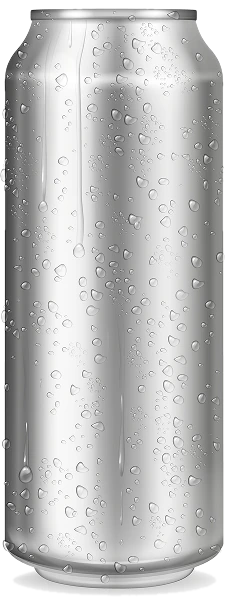
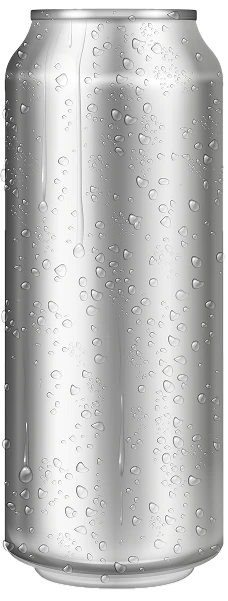
Remove can halo, declutter hero, testimonial arrows, mobile layout
- cut the photo's grey contact shadow so the shader no longer tints it into a halo
- drop the hero sub-text and the can's drop shadow
- 8 testimonials stepped with side arrows like the hero, no scrollbar
- mobile: no hero arrows, smaller can, centred contact block

Changed region(s): [[0.0921, 0.9285, 0.9211, 0.9884]]

diff --git a/index.html b/index.html
@@ -34,7 +34,6 @@
           <svg viewBox="0 0 24 24" aria-hidden="true"><path d="m9 5 7 7-7 7" /></svg>
         </button>
         <div class="flavour-tabs" id="dots" role="tablist" aria-label="Choose a flavour"></div>
-        <p class="hero-tag" id="hero-tag"></p>
       </section>
 
       <!-- ---------- Intro ---------- -->
@@ -83,27 +82,50 @@
       <!-- ---------- Testimonials ---------- -->
       <section class="testimonials reveal">
         <h2 class="section-title yellow">User testimonials</h2>
-        <div class="quotes-wrap">
-          <ul class="quotes" id="quotes">
-            <li>
-              <blockquote>I have been ordering Freshy for more than a year and I cannot stop, addicted! The freshness, the taste and the health factor, just ordered some more.</blockquote>
-              <span class="avatar" style="--c: #ff8989">IB</span><cite>Isabel Black</cite>
-            </li>
-            <li>
-              <blockquote>Unbelievably good: the taste hits all the right spots. Keep up the good work, guys!</blockquote>
-              <span class="avatar" style="--c: #c7db9c">MJ</span><cite>Michael Joseph</cite>
-            </li>
-            <li>
-              <blockquote>When my friend first offered me the orange, I was sceptical, as if there weren't a million similar drinks out there. Little did I know, I was wrong. Freshy is one in a million!</blockquote>
-              <span class="avatar" style="--c: #ffaa28">LB</span><cite>Lily Bloomdale</cite>
-            </li>
-            <li>
-              <blockquote>The lemon one replaced my afternoon coffee. Light, fizzy and not too sweet.</blockquote>
-              <span class="avatar" style="--c: #d3e671">JW</span><cite>Jonah Wrenfield</cite>
-            </li>
-          </ul>
+        <div class="quotes-row">
+          <button class="side-arrow" id="quotes-prev" type="button" aria-label="Previous testimonials">
+            <svg viewBox="0 0 24 24" aria-hidden="true"><path d="M15 5 8 12l7 7" /></svg>
+          </button>
+          <div class="quotes-wrap">
+            <ul class="quotes" id="quotes">
+              <li>
+                <blockquote>I have been ordering Freshy for more than a year and I cannot stop, addicted! The freshness, the taste and the health factor, just ordered some more.</blockquote>
+                <span class="avatar" style="--c: #ff8989">IB</span><cite>Isabel Black</cite>
+              </li>
+              <li>
+                <blockquote>Unbelievably good: the taste hits all the right spots. Keep up the good work, guys!</blockquote>
+                <span class="avatar" style="--c: #c7db9c">MJ</span><cite>Michael Joseph</cite>
+              </li>
+              <li>
+                <blockquote>When my friend first offered me the orange, I was sceptical, as if there weren't a million similar drinks out there. Little did I know, I was wrong. Freshy is one in a million!</blockquote>
+                <span class="avatar" style="--c: #ffaa28">LB</span><cite>Lily Bloomdale</cite>
+              </li>
+              <li>
+                <blockquote>The lemon one replaced my afternoon coffee. Light, fizzy and not too sweet.</blockquote>
+                <span class="avatar" style="--c: #d3e671">JW</span><cite>Jonah Wrenfield</cite>
+              </li>
+              <li>
+                <blockquote>I bought a 6 pack for a picnic and came home with an empty cooler and three people asking where to buy it.</blockquote>
+                <span class="avatar" style="--c: #f8ed8c">CW</span><cite>Celeste Waring</cite>
+              </li>
+              <li>
+                <blockquote>My stomach is calmer since I swapped my evening soda for the apple one. And it actually tastes like apple.</blockquote>
+                <span class="avatar" style="--c: #ff8989">DP</span><cite>Darius Penhallow</cite>
+              </li>
+              <li>
+                <blockquote>Finally a kombucha that doesn't taste like vinegar. The orange is my favourite, cold straight from the fridge.</blockquote>
+                <span class="avatar" style="--c: #c7db9c">AB</span><cite>Aiko Brandt</cite>
+              </li>
+              <li>
+                <blockquote>The cans look so good I keep them on the shelf. Ordering the 24 pack next time, no question.</blockquote>
+                <span class="avatar" style="--c: #ffaa28">RA</span><cite>Ruben Ashcombe</cite>
+              </li>
+            </ul>
+          </div>
+          <button class="side-arrow" id="quotes-next" type="button" aria-label="Next testimonials">
+            <svg viewBox="0 0 24 24" aria-hidden="true"><path d="m9 5 7 7-7 7" /></svg>
+          </button>
         </div>
-        <button class="arrow quotes-next" id="quotes-next" type="button" aria-label="Next testimonials">→</button>
       </section>
 
       <!-- ---------- Resellers ---------- -->

diff --git a/src/main.ts b/src/main.ts
@@ -6,9 +6,9 @@ type Piece = { src: string; x: number; y: number; w: number; h: number; leaf: bo
 type FlavourAssets = { label: string; labelBg: string; pieces: Piece[] };
 
 const FLAVOURS = [
-  { id: "orange", word: "Orange", colour: "#ffa93a", tag: "Zesty orange · probiotic sparkling tea" },
-  { id: "apple", word: "Apple", colour: "#ff8989", tag: "Crisp apple · probiotic sparkling tea" },
-  { id: "lemon", word: "Lemon", colour: "#f8ed8c", tag: "Tangy lemon · probiotic sparkling tea" },
+  { id: "orange", word: "Orange", colour: "#ffa93a" },
+  { id: "apple", word: "Apple", colour: "#ff8989" },
+  { id: "lemon", word: "Lemon", colour: "#f8ed8c" },
 ] as const;
 type Flavour = (typeof FLAVOURS)[number];
 
@@ -17,7 +17,6 @@ const hero = $("hero");
 const wipe = $("hero-wipe");
 const word = $("word");
 const fruitsEl = $("fruits");
-const tag = $("hero-tag");
 const dots = $("dots");
 const reducedMotion = window.matchMedia("(prefers-reduced-motion: reduce)").matches;
 
@@ -122,7 +121,6 @@ function show(index: number, animate = true, direction = 1) {
   }
   setWord(f.word, motion, direction);
   setFruit(f, motion);
-  tag.textContent = f.tag;
   hero.dataset.flavour = f.id;
   setControls();
   document.dispatchEvent(new CustomEvent("flavour", { detail: f }));
@@ -216,15 +214,25 @@ const say = (el: HTMLElement, text: string) => {
 $("buy").addEventListener("click", () => say(toast, "This is a demo: there's no checkout, but thank you for wanting some."));
 $("reseller").addEventListener("click", () => say(toast, "This is a demo page; the reseller programme is imaginary."));
 
-// ---------- testimonials: step through, one card at a time ----------
+// ---------- testimonials: step through with the arrows, wrapping at the ends ----------
 const quotes = $("quotes");
 let quoteIndex = 0;
-$("quotes-next").addEventListener("click", () => {
-  const cards = quotes.children.length;
+const stepQuotes = (delta: number) => {
   const visible = window.innerWidth > 900 ? 3 : 1;
-  quoteIndex = (quoteIndex + 1) % (cards - visible + 1);
+  const stops = quotes.children.length - visible + 1;
+  quoteIndex = (quoteIndex + delta + stops) % stops;
   quotes.style.setProperty("--shift", String(quoteIndex));
+};
+$("quotes-next").addEventListener("click", () => stepQuotes(1));
+$("quotes-prev").addEventListener("click", () => stepQuotes(-1));
+// swipe on phones
+let quoteTouch = 0;
+quotes.addEventListener("touchstart", (e) => (quoteTouch = e.touches[0].clientX), { passive: true });
+quotes.addEventListener("touchend", (e) => {
+  const dx = e.changedTouches[0].clientX - quoteTouch;
+  if (Math.abs(dx) > 40) stepQuotes(dx < 0 ? 1 : -1);
 });
+window.addEventListener("resize", () => stepQuotes(0));
 
 // ---------- contact form (no backend: just a friendly confirmation) ----------
 const form = $<HTMLFormElement>("form");

diff --git a/src/style.css b/src/style.css
@@ -216,7 +216,6 @@ button {
   padding: 0;
   border: 0;
   background: none;
-  filter: drop-shadow(0 40px 30px rgba(0, 0, 0, 0.22));
 }
 
 .can canvas {
@@ -311,18 +310,6 @@ button {
     linear-gradient(90deg, rgba(0, 0, 0, 0.2), transparent 35%, rgba(255, 255, 255, 0.4) 50%, transparent 65%, rgba(0, 0, 0, 0.25)),
     var(--tab-label) center / cover,
     var(--c);
-}
-
-.hero-tag {
-  position: absolute;
-  left: 50%;
-  bottom: 100px;
-  z-index: 5;
-  margin: 0;
-  translate: -50% 0;
-  font-family: var(--text);
-  font-size: 16px;
-  white-space: nowrap;
 }
 
 /* ---------- Shared section look ---------- */
@@ -649,10 +636,16 @@ main > section:not(.hero) {
   font-size: 16px;
 }
 
-.quotes-next {
-  position: absolute;
-  right: -10px;
-  bottom: 30px;
+.quotes-row {
+  display: grid;
+  grid-template-columns: auto minmax(0, 1fr) auto;
+  align-items: center;
+  gap: clamp(8px, 2vw, 24px);
+}
+
+.quotes-row .side-arrow {
+  position: static;
+  translate: none;
 }
 
 /* ---------- Resellers ---------- */
@@ -810,15 +803,56 @@ main > section:not(.hero) {
 }
 
 @media (max-width: 600px) {
+  .nav {
+    padding: 18px 20px;
+  }
   .nav nav {
     gap: 14px;
+  }
+  /* on a phone the tabs and a swipe are enough; side arrows would sit on the fruit */
+  .hero .side-arrow {
+    display: none;
+  }
+  .flavour-tabs {
+    bottom: 18px;
+    gap: 4px;
+  }
+  .flavour-tab {
+    padding: 6px 12px 6px 6px;
+    font-size: 14px;
+  }
+  .quotes-row .side-arrow {
+    width: 44px;
+    height: 44px;
+  }
+  .quotes-row .side-arrow svg {
+    width: 20px;
+    height: 20px;
+  }
+  .quotes li {
+    padding: 0 8px;
+  }
+  .contact-grid {
+    text-align: center;
+  }
+  .contact-lead br {
+    display: none;
+  }
+  .socials {
+    justify-items: center;
+    margin-top: 28px;
+  }
+  .form {
+    text-align: left;
+    padding: 22px 20px;
   }
   .word {
     font-size: 30vw;
   }
   .can {
-    width: 52vw;
-    height: 70vh;
+    width: 46vw;
+    height: 56svh;
+    translate: -50% -54%;
   }
   .pack-cans {
     grid-template-columns: repeat(6, 16px);
